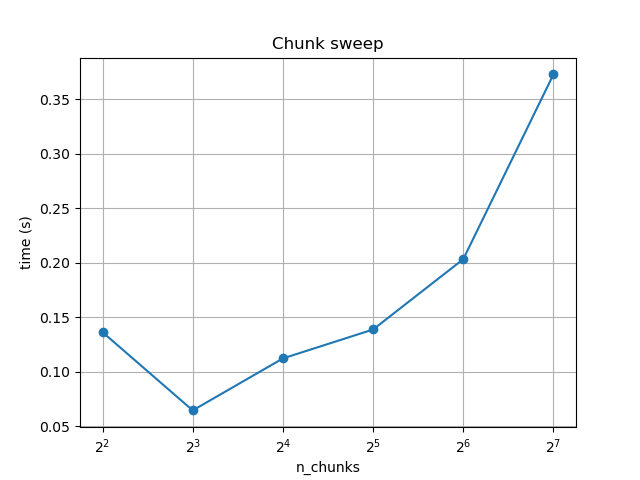
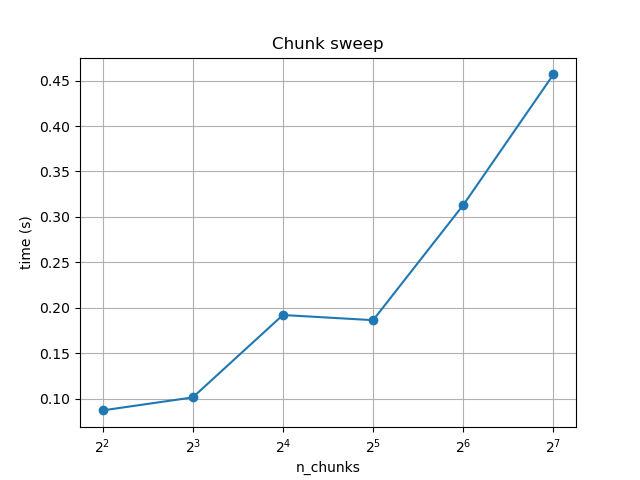
Update MP2 M1: corrected chunked Mandelbrot with n_chunks and pool

diff --git a/MP2/mandelbrot_chunked_parallel.py b/MP2/mandelbrot_chunked_parallel.py
@@ -61,10 +61,12 @@ def mandelbrot_parallel(
         row = row_end
 
     if pool is not None:
-        parts = pool.map(_worker, chunks)
-        return np.vstack(parts)
+        return np.vstack(pool.map(_worker, chunks))
+
+    tiny = [(0, 8, 8, x_min, x_max, y_min, y_max, max_iter)]
 
     with Pool(processes=n_workers) as p:
+        p.map(_worker, tiny)
         parts = p.map(_worker, chunks)
 
     return np.vstack(parts)
@@ -77,16 +79,23 @@ if __name__ == "__main__":
     Y_MIN, Y_MAX = -1.25, 1.25
 
     n_workers = max(1, os.cpu_count() // 2)
+    n_chunks = 4 * n_workers
 
-    serial = mandelbrot_serial(N, X_MIN, X_MAX, Y_MIN, Y_MAX, max_iter)
+    serial_result = mandelbrot_serial(N, X_MIN, X_MAX, Y_MIN, Y_MAX, max_iter)
 
-    parallel = mandelbrot_parallel(
-        N, X_MIN, X_MAX, Y_MIN, Y_MAX,
+    parallel_result = mandelbrot_parallel(
+        N,
+        X_MIN,
+        X_MAX,
+        Y_MIN,
+        Y_MAX,
         max_iter=max_iter,
         n_workers=n_workers,
-        n_chunks=4 * n_workers
+        n_chunks=n_chunks
     )
 
-    print("Serial shape:", serial.shape)
-    print("Parallel shape:", parallel.shape)
-    print("Same result:", np.array_equal(serial, parallel))
+    print("Serial shape:", serial_result.shape)
+    print("Parallel shape:", parallel_result.shape)
+    print("Same result:", np.array_equal(serial_result, parallel_result))
+    print("n_workers:", n_workers)
+    print("n_chunks:", n_chunks)
